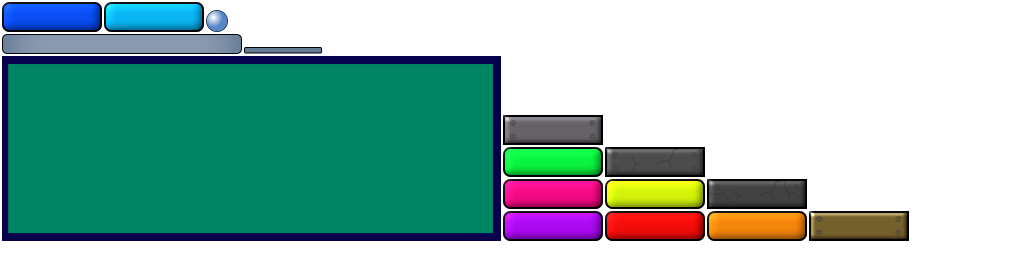
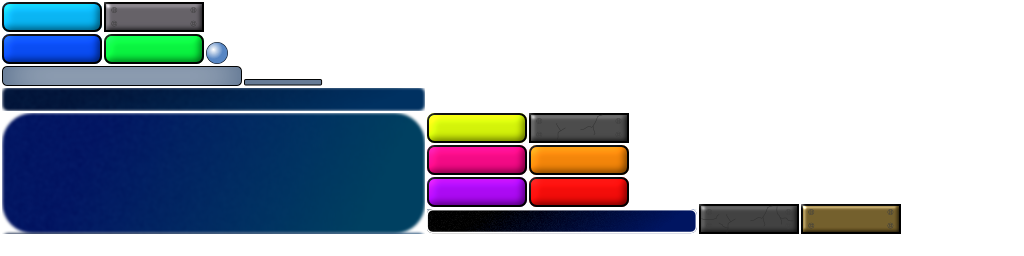
Own Breakout test game - collision and UI improvements

diff --git a/LibGDXTestRoom/MyBreakoutGame/core/src/pl/com/calmandwritecode/EditorScreen.java b/LibGDXTestRoom/MyBreakoutGame/core/src/pl/com/calmandwritecode/EditorScreen.java
@@ -15,10 +15,10 @@ import com.badlogic.gdx.scenes.scene2d.Stage;
 import com.badlogic.gdx.scenes.scene2d.ui.*;
 import com.badlogic.gdx.scenes.scene2d.utils.ChangeListener;
 import com.badlogic.gdx.scenes.scene2d.utils.SpriteDrawable;
+import com.badlogic.gdx.utils.Align;
 import com.badlogic.gdx.utils.Json;
 import com.badlogic.gdx.utils.ScreenUtils;
 import com.badlogic.gdx.utils.StringBuilder;
-import sun.tools.jconsole.Tab;
 
 import java.io.File;
 import java.io.FileWriter;
@@ -34,7 +34,7 @@ public class EditorScreen implements Screen {
     private Stage stage;
     private ButtonGroup<ImageButton> buttons;
     private boolean activeGrid;
-    private BreakoutGame game;
+    private final BreakoutGame game;
 
     public EditorScreen(BreakoutGame game){
         this.game = game;
@@ -66,8 +66,11 @@ public class EditorScreen implements Screen {
 
         final TextButton.TextButtonStyle textButtonStyle = new TextButton.TextButtonStyle();
         textButtonStyle.font = new BitmapFont();
-        textButtonStyle.fontColor = Color.WHITE;
-        textButtonStyle.downFontColor = Color.BLUE;
+        textButtonStyle.fontColor = Color.BLACK;
+        textButtonStyle.downFontColor = Color.WHITE;
+        textButtonStyle.up = new SpriteDrawable(atlas.createSprite("wall_brick"));
+        textButtonStyle.over = new SpriteDrawable(atlas.createSprite("hard_brick0"));
+        textButtonStyle.down = new SpriteDrawable(atlas.createSprite("hard_brick2"));
 
         TextButton clear = new TextButton("Clear grid",textButtonStyle);
         clear.addListener(new ChangeListener() {
@@ -104,10 +107,13 @@ public class EditorScreen implements Screen {
         windowStyle.titleFont = new BitmapFont();
         windowStyle.background = new SpriteDrawable(atlas.createSprite("dialog"));
         final Dialog dialog = new Dialog("Type level name: ",windowStyle);
+        dialog.getTitleLabel().getStyle().background = new SpriteDrawable(atlas.createSprite("dialog_stage"));
+        dialog.getTitleLabel().setAlignment(Align.center);
 
         TextField.TextFieldStyle textFieldStyle = new TextField.TextFieldStyle();
         textFieldStyle.font = new BitmapFont();
-        textFieldStyle.fontColor = Color.BLUE;
+        textFieldStyle.fontColor = Color.WHITE;
+        textFieldStyle.background = new SpriteDrawable(atlas.createSprite("dialog_text_field"));
         final TextField textField = new TextField("myLevelName",textFieldStyle);
 
         TextButton ok = new TextButton("OK",textButtonStyle);
@@ -115,7 +121,7 @@ public class EditorScreen implements Screen {
         ok.addListener(new ChangeListener() {
             @Override
             public void changed(ChangeEvent event, Actor actor) {
-                Level level = new Level(textField.getText().toString(),saveToString(),slider.getValue());
+                Level level = new Level(textField.getText(),saveToString(),slider.getValue());
                 Json json = new Json();
                 File file = Gdx.files.absolute("assets/levels/"+level.getLevelTitle()+".json").file();
                 try (FileWriter writer = new FileWriter(file)){
@@ -137,9 +143,8 @@ public class EditorScreen implements Screen {
                 dialog.remove();
             }
         });
-        dialog.debug();
-        dialog.getContentTable().add(textField).center();
-        dialog.getButtonTable().add(ok,cancel).padBottom(50);
+        dialog.getContentTable().add(textField).padTop(30);
+        dialog.getButtonTable().add(ok,cancel).padBottom(30);
 
         save.addListener(new ChangeListener() {
             @Override

diff --git a/LibGDXTestRoom/MyBreakoutGame/core/src/pl/com/calmandwritecode/LevelScreen.java b/LibGDXTestRoom/MyBreakoutGame/core/src/pl/com/calmandwritecode/LevelScreen.java
@@ -6,12 +6,11 @@ import com.badlogic.gdx.Screen;
 import com.badlogic.gdx.graphics.Color;
 import com.badlogic.gdx.graphics.GL20;
 import com.badlogic.gdx.graphics.OrthographicCamera;
+import com.badlogic.gdx.graphics.g2d.BitmapFont;
 import com.badlogic.gdx.graphics.g2d.SpriteBatch;
 import com.badlogic.gdx.graphics.g2d.TextureAtlas;
 import com.badlogic.gdx.math.Vector2;
-import com.badlogic.gdx.utils.Array;
-import com.badlogic.gdx.utils.Json;
-import com.badlogic.gdx.utils.ScreenUtils;
+import com.badlogic.gdx.utils.*;
 
 public class LevelScreen implements Screen {
 
@@ -24,13 +23,16 @@ public class LevelScreen implements Screen {
     private final TextureAtlas atlas;
     private final LifeCounter lifeCounter;
 
+    private long lastCheckoutTime;
+    private long score;
+    private BitmapFont font;
+
     public LevelScreen(BreakoutGame game) {
         this.game = game;
         float WIDTH = Gdx.graphics.getWidth();
         float HEIGHT = Gdx.graphics.getHeight();
 
         atlas = new TextureAtlas("breakout-tx.atlas");
-
         ball = new Ball(WIDTH, HEIGHT,atlas);
         paddle = new Paddle(WIDTH,atlas);
         paddle.setReadyToThrow();
@@ -40,14 +42,16 @@ public class LevelScreen implements Screen {
         LevelBuilder builder = new LevelBuilder(atlas);
         bricks = new Array<>();
         bricks = builder.buildFromString(level.getBrickMap());
-        
+
         camera = new OrthographicCamera();
         camera.setToOrtho(false, WIDTH, HEIGHT);
 
         lifeCounter = new LifeCounter(atlas);
 
+        score = 0;
+        font = new BitmapFont();
 
-
+        lastCheckoutTime = TimeUtils.millis();
         Gdx.input.setCursorCatched(true);
     }
 
@@ -67,13 +71,16 @@ public class LevelScreen implements Screen {
         ball.draw(game.batch);
         lifeCounter.draw(game.batch);
         findBrickCollision();
+        font.draw(game.batch, "Score : "+score,Gdx.graphics.getWidth()/2,Gdx.graphics.getHeight()-10);
         game.batch.end();
         paddle.collision(ball);
         paddle.update();
         ball.update();
 
-        if (Gdx.input.isKeyPressed(Input.Keys.SPACE)){
+        if (TimeUtils.timeSinceMillis(lastCheckoutTime)>20000){
             ball.accelerateBall();
+            System.out.println(ball.xSpeed+" "+ball.ySpeed);
+            lastCheckoutTime = TimeUtils.millis();
         }
 
         if (ball.y < 0){
@@ -120,8 +127,10 @@ public class LevelScreen implements Screen {
         }
         if (closest != null){
             closest.collision(ball);
-            if (closest.destroyed)
-                bricks.removeIndex(bricks.indexOf(closest,true));
+            if (closest.destroyed) {
+                score += closest.getPointsWorth();
+                bricks.removeIndex(bricks.indexOf(closest, true));
+            }
             findBrickCollision();
         }
 
@@ -152,5 +161,6 @@ public class LevelScreen implements Screen {
     public void dispose() {
         atlas.dispose();
         ball.dispose();
+        lifeCounter.dispose();
     }
 }

diff --git a/LibGDXTestRoom/MyBreakoutGame/core/src/pl/com/calmandwritecode/Brick.java b/LibGDXTestRoom/MyBreakoutGame/core/src/pl/com/calmandwritecode/Brick.java
@@ -2,7 +2,6 @@ package pl.com.calmandwritecode;
 
 import com.badlogic.gdx.graphics.g2d.Sprite;
 import com.badlogic.gdx.graphics.g2d.SpriteBatch;
-import com.badlogic.gdx.math.Circle;
 import com.badlogic.gdx.math.Intersector;
 import com.badlogic.gdx.math.Rectangle;
 import com.badlogic.gdx.math.Vector2;
@@ -20,6 +19,8 @@ public class Brick extends Rectangle {
     private Vector2 topRight;
 
     private String boundSide;
+    private Vector2 lastIntersection;
+    protected int pointsWorth;
 
     public Brick(float x, float y, Sprite texture){
         this.x = x;
@@ -33,6 +34,7 @@ public class Brick extends Rectangle {
         bottomRight = new Vector2(x+width,y);
         topLeft = new Vector2(x,y+height);
         topRight = new Vector2(x+width, y+height );
+        pointsWorth = 10;
     }
 
     public void draw(SpriteBatch batch){
@@ -96,6 +98,7 @@ public class Brick extends Rectangle {
                 }
             }
         }
+        lastIntersection = nearestIntersection;
         return !boundSide.equals("none") ? nearestIntersection : null;
     }
 
@@ -104,19 +107,31 @@ public class Brick extends Rectangle {
         switch (boundSide){
             case "left":
                 if (ball.xSpeed>0)ball.xSpeed = -ball.xSpeed;
+                ball.x = lastIntersection.x-ball.radius;
+                ball.y = lastIntersection.y;
                 break;
             case "right":
                 if (ball.xSpeed<0)ball.xSpeed = -ball.xSpeed;
+                ball.x = lastIntersection.x+ball.radius;
+                ball.y = lastIntersection.y;
                 break;
             case "top":
                 if (ball.ySpeed<0)ball.ySpeed = -ball.ySpeed;
+                ball.y = lastIntersection.y+ball.radius;
+                ball.x = lastIntersection.x;
                 break;
             case "bottom":
                 if (ball.ySpeed>0)ball.ySpeed = -ball.ySpeed;
+                ball.y = lastIntersection.y-ball.radius;
+                ball.x = lastIntersection.x;
                 break;
             default:break;
         }
         ball.updateVectors();
         ball.playBounce();
+    }
+
+    public int getPointsWorth() {
+        return pointsWorth;
     }
 }

diff --git a/LibGDXTestRoom/MyBreakoutGame/core/src/pl/com/calmandwritecode/LevelBuilder.java b/LibGDXTestRoom/MyBreakoutGame/core/src/pl/com/calmandwritecode/LevelBuilder.java
@@ -54,10 +54,8 @@ public class LevelBuilder {
     private final static char NEXT_LINE = 'n';
 
     private final Sprite[] textures;
-    private final TextureAtlas atlas;
 
     public LevelBuilder(TextureAtlas atlas){
-        this.atlas = atlas;
         textures = new Sprite[]{
                 atlas.createSprite("brick1"),
                 atlas.createSprite("brick2"),
@@ -77,8 +75,8 @@ public class LevelBuilder {
 
     public Array<Brick> buildFromString(String map){
         Array<Brick> bricks = new Array<>();
-        float x=30;
-        float y=610;
+        float x=15;
+        float y=670;
         for (int i=0; i<map.length(); i++){
             char c = map.charAt(i);
             if (c == BRICK) {
@@ -99,11 +97,12 @@ public class LevelBuilder {
                 x+=50;
             }else if (c == NEXT_LINE){
                 y-=30;
-                x=30;
+                x=15;
             }
         }
         return bricks;
     }
 
     public void dispose(){}
+
 }

diff --git a/LibGDXTestRoom/MyBreakoutGame/core/src/pl/com/calmandwritecode/Ball.java b/LibGDXTestRoom/MyBreakoutGame/core/src/pl/com/calmandwritecode/Ball.java
@@ -41,7 +41,7 @@ public class Ball extends Circle {
     public void update(){
         x+=xSpeed;
         y+=ySpeed;
-        if (x<=0 && xSpeed<0){
+        if (x<=radius && xSpeed<0){
             xSpeed = -xSpeed;
             playBounce();
         }
@@ -58,15 +58,17 @@ public class Ball extends Circle {
 
     public void updateVectors(){
         position.set(x,y);
-        float xs = xSpeed>=0 ? xSpeed : -xSpeed;
-        float ys = ySpeed>=0 ? ySpeed : -ySpeed;
+        float xs = Math.abs(xSpeed);
+        float ys = Math.abs(ySpeed);
         float multiplier = xs>ys ? 10/xs : 10/ys;
         futurePos.set(x+xSpeed*multiplier,y+ySpeed*multiplier);
     }
 
     public void accelerateBall(){
-        xSpeed = xSpeed * 1.05f;
-        ySpeed = ySpeed * 1.05f;
+        if (Math.abs(xSpeed)<10 && Math.abs(ySpeed)<10) {
+            xSpeed = xSpeed * 1.1f;
+            ySpeed = ySpeed * 1.1f;
+        }
     }
 
     public void playBounce(){

diff --git a/LibGDXTestRoom/MyBreakoutGame/core/src/pl/com/calmandwritecode/WallBrick.java b/LibGDXTestRoom/MyBreakoutGame/core/src/pl/com/calmandwritecode/WallBrick.java
@@ -6,6 +6,7 @@ public class WallBrick extends Brick {
     public WallBrick(float x, float y, Sprite texture) {
         super(x, y, texture);
         destryable = false;
+        pointsWorth = 50;
     }
 
     @Override

diff --git a/LibGDXTestRoom/MyBreakoutGame/core/src/pl/com/calmandwritecode/HardBrick.java b/LibGDXTestRoom/MyBreakoutGame/core/src/pl/com/calmandwritecode/HardBrick.java
@@ -12,6 +12,7 @@ public class HardBrick extends Brick{
         super(x, y, textures[0]);
         hits = 0;
         this.textures = textures;
+        pointsWorth = 30;
 
     }
 

diff --git a/LibGDXTestRoom/MyBreakoutGame/core/src/pl/com/calmandwritecode/LifeCounter.java b/LibGDXTestRoom/MyBreakoutGame/core/src/pl/com/calmandwritecode/LifeCounter.java
@@ -35,4 +35,8 @@ public class LifeCounter {
         return lives < 0;
     }
 
+    public void dispose(){
+        font.dispose();
+    }
+
 }
